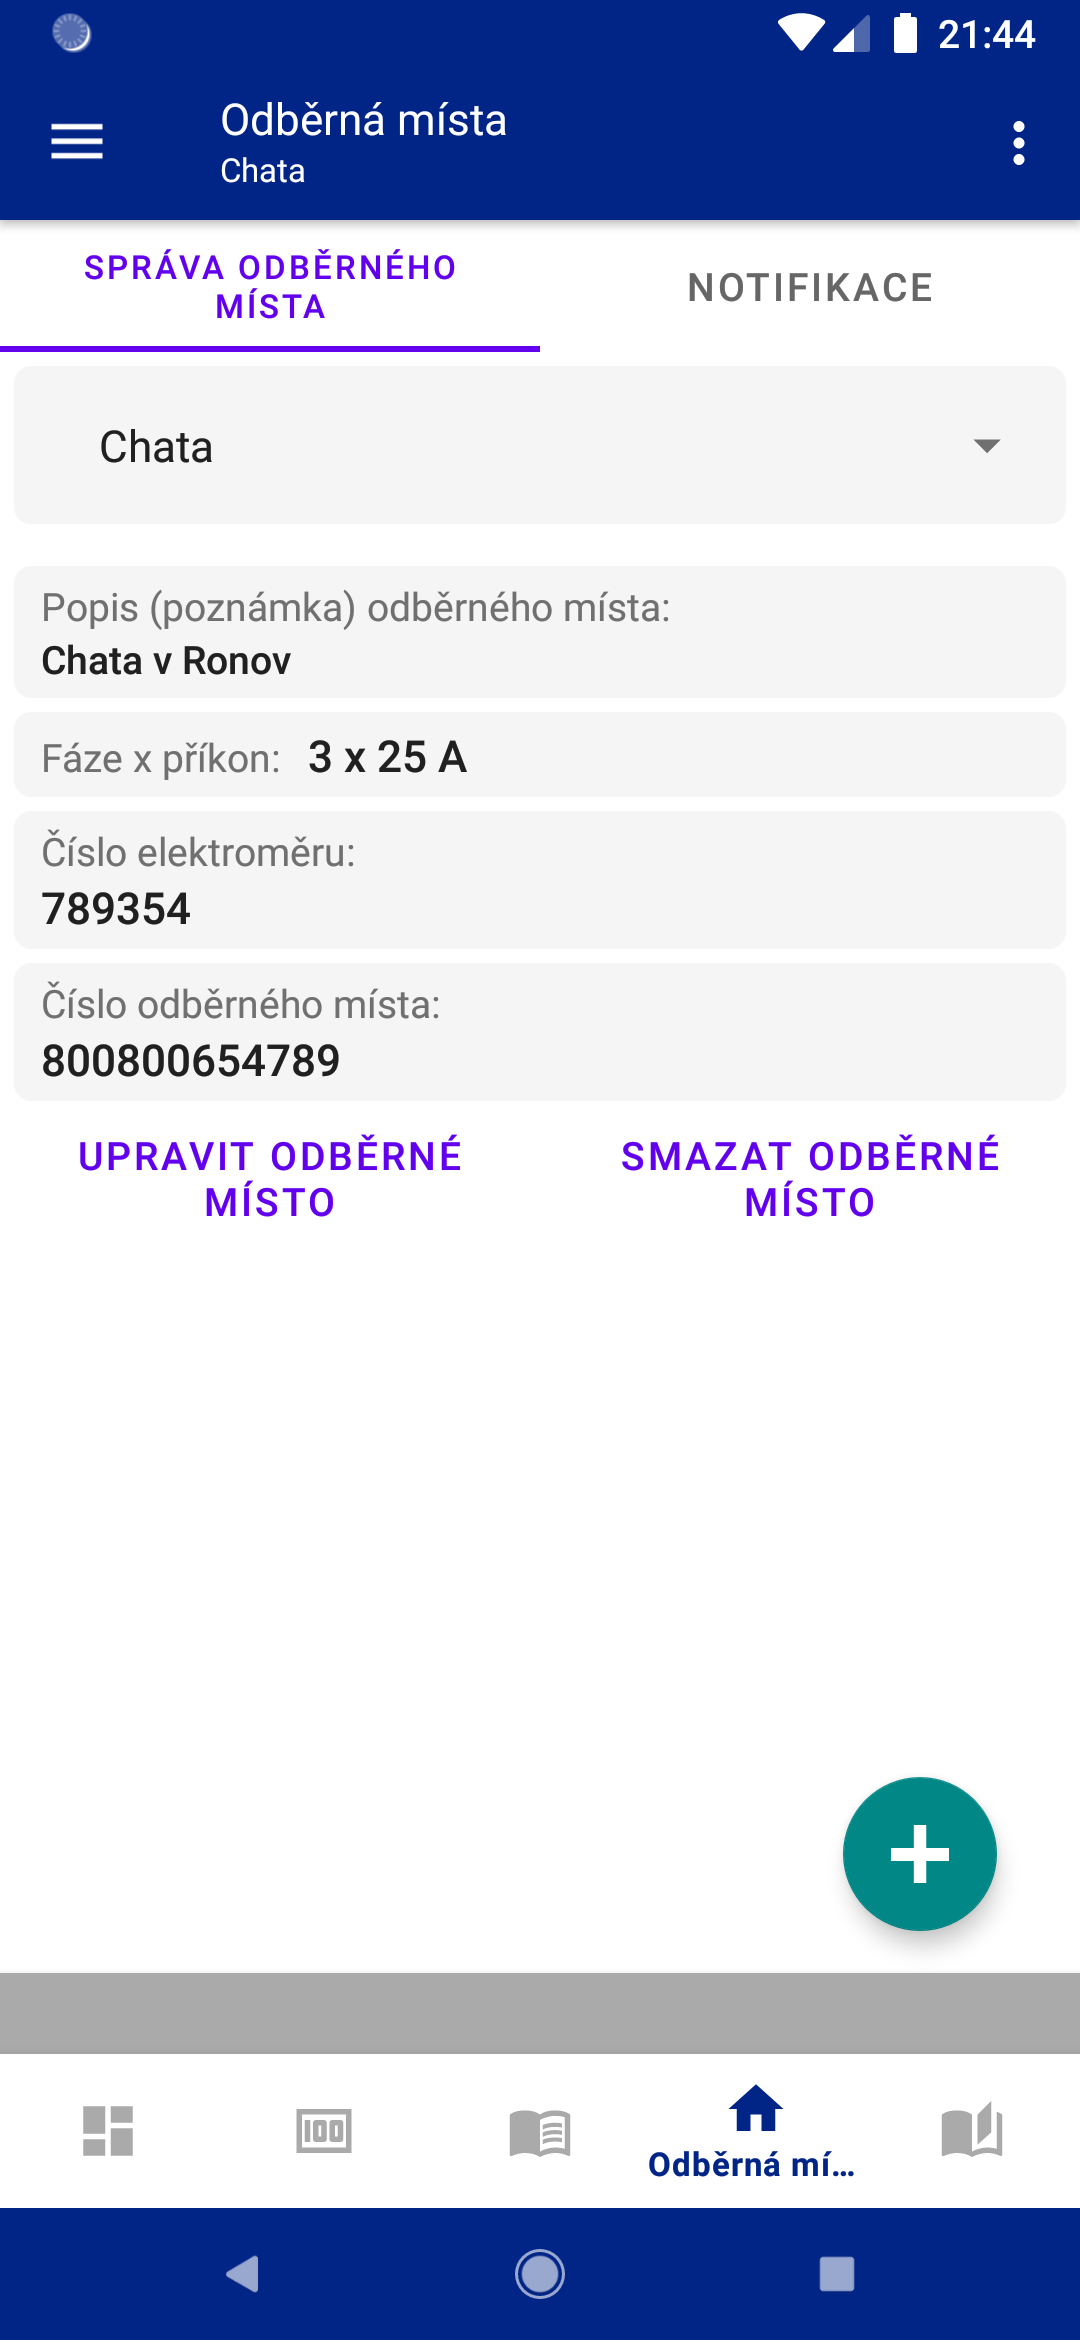
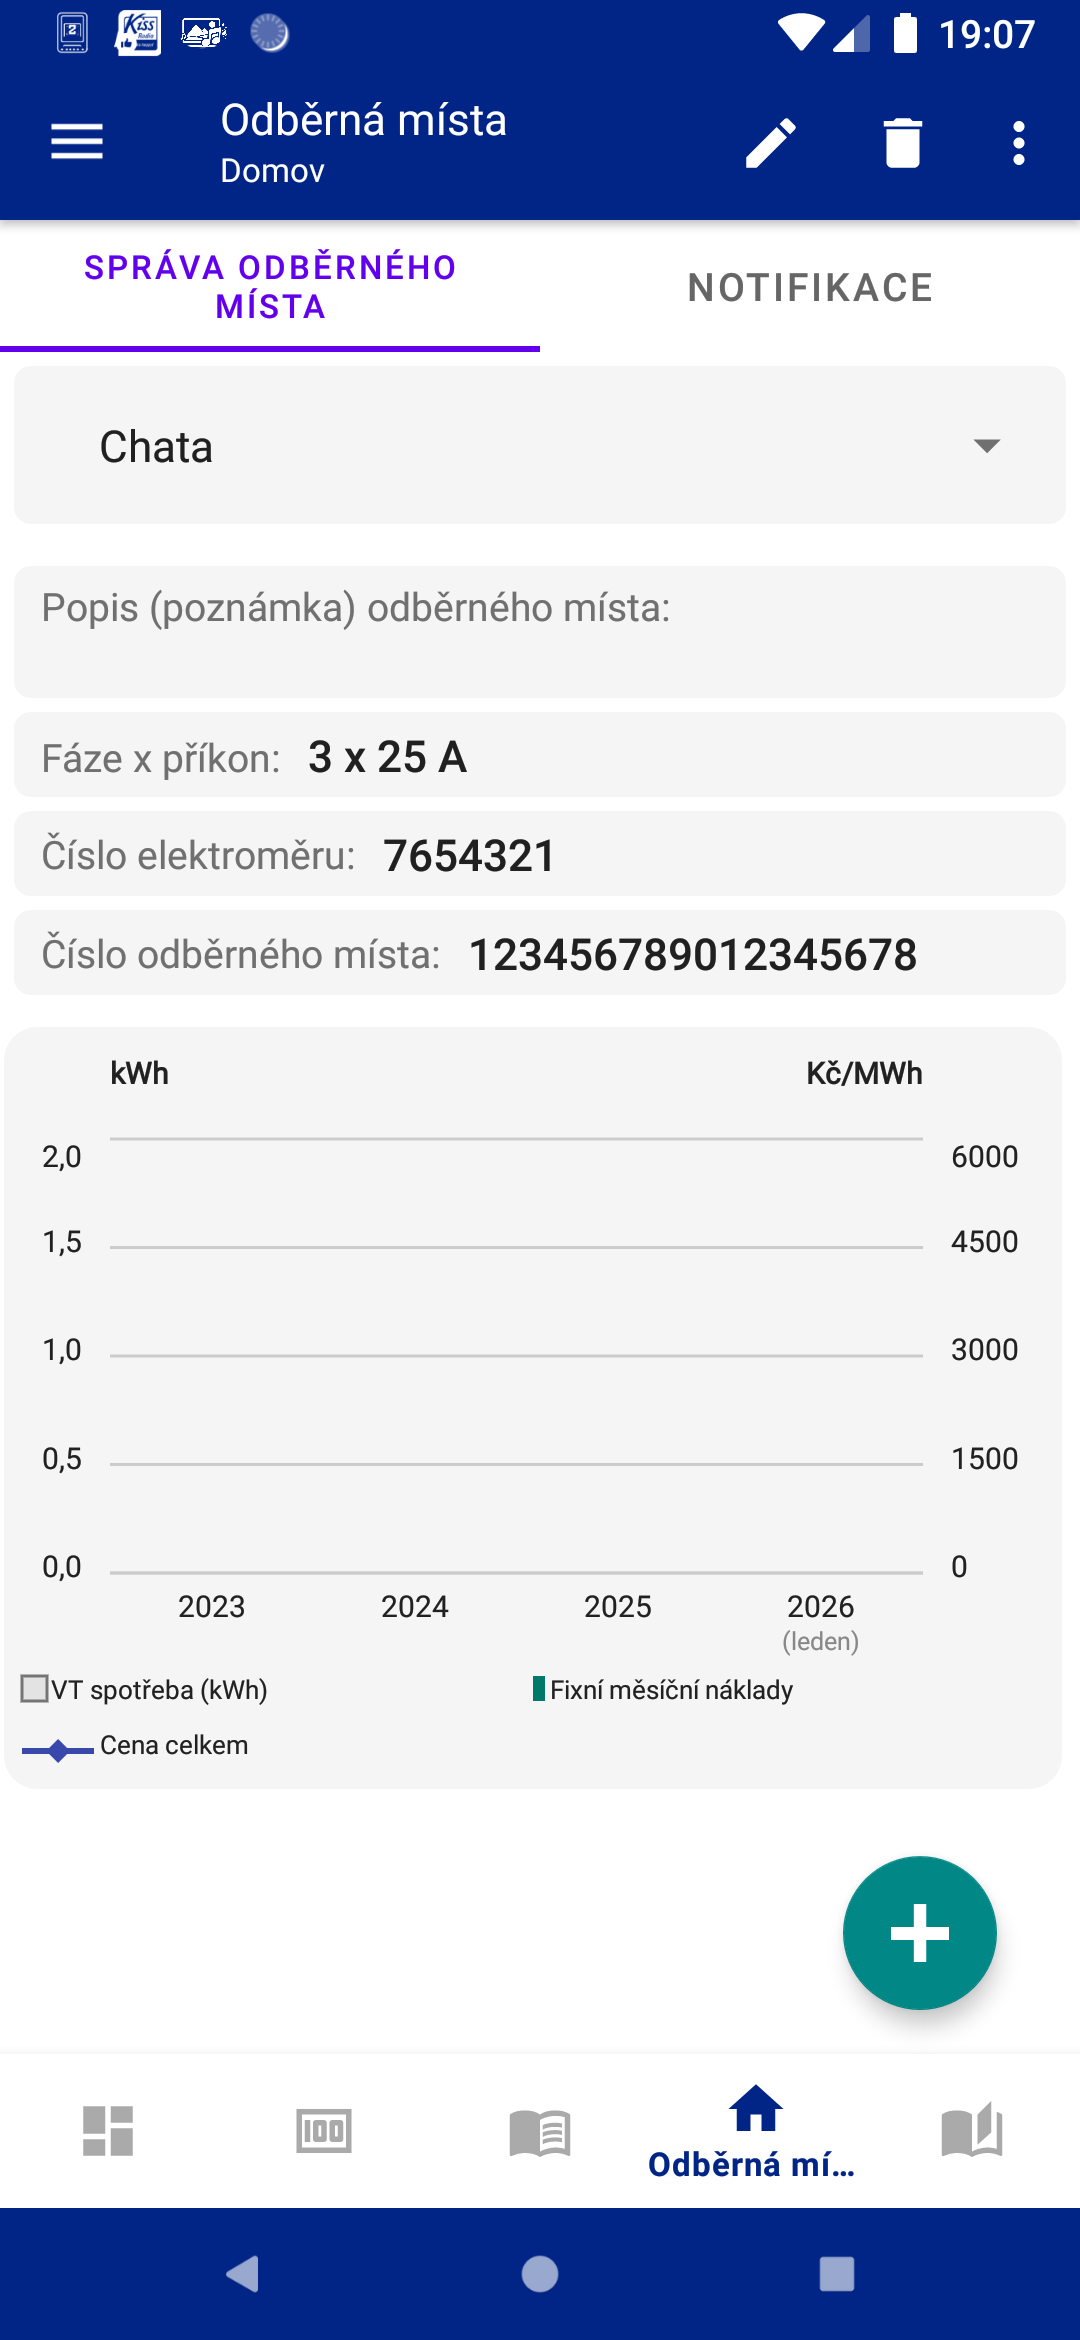
Dokumentace: doplnění popisu nových grafů a aktualizace verze aplikace
- build.gradle: zvýšení versionCode na 163 a versionName na 1.163
- README.md: rozšíření dokumentace o detaily kombinovaného grafu roční spotřeby, grafické zobrazení časů HDO, upozornění na neplatné kódy a aktualizace odkazů na snímky obrazovek
- version.json: přidání záznamu s datem vydání a seznamem nových funkcí pro verzi 163

diff --git a/README.md b/README.md
@@ -15,12 +15,61 @@ Aplikace pracuje s vysokým tarifem (VT), nízkým tarifem (NT), měsíčními z
 
 Odběrné místo představuje konkrétní místo spotřeby elektřiny, například byt, dům, garáž nebo chatu. V aplikaci lze vést více odběrných míst současně. Veškeré měsíční odečty, faktury, použité ceníky a další záznamy se vždy vztahují k aktuálně vybranému odběrnému místu.
 
-Obrazovka odběrných míst je rozdělena na dvě části: **Správa odběrného místa** a **Notifikace**. V
-části **Správa odběrného místa** se vybírá aktuální odběrné místo a zobrazují se jeho základní
-údaje. Aktuální odběrné místo se vybírá pomocí rozbalovacího seznamu v horní části obrazovky. Pod
-ním se zobrazují například poznámka, hodnota hlavního jističe, číslo elektroměru a číslo odběrného
-místa. Tyto údaje pomáhají odlišit jednotlivá místa a zároveň slouží jako podklad pro některé
-výpočty, zejména u hodnot souvisejících s hlavním jističem.
+Obrazovka odběrných míst je rozdělena na dvě části: **Správa odběrného místa** a **Notifikace** (v
+režimu na výšku) nebo na zobrazení detailů vlevo a záložek vpravo (v režimu na šířku). V části *
+*Správa odběrného místa** se vybírá aktuální odběrné místo a zobrazují se jeho základní údaje.
+Aktuální odběrné místo se vybírá pomocí rozbalovacího seznamu v horní části obrazovky. Pod ním se
+zobrazují například poznámka, hodnota hlavního jističe, číslo elektroměru a číslo odběrného místa.
+Tyto údaje pomáhají odlišit jednotlivá místa a zároveň slouží jako podklad pro některé výpočty,
+zejména u hodnot souvisejících s hlavním jističem.
+
+Součástí je také **Přehledový kombinovaný graf roční spotřeby a průměrných cen**, který zobrazuje 4
+po sobě jdoucí roky. Graf přehledně kombinuje skládané sloupce spotřeby vysokého (VT) a nízkého
+tarifu (NT), tenký sloupec fixních měsíčních nákladů a cenové čáry průměrných cen za MWh. Všechny
+číselné hodnoty spotřeby i cen jsou uspořádány do samostatných neprůhledných rámečků. V režimu na
+šířku lze záložkami v pravém sloupci pohodlně přepínat mezi zobrazením grafu a nastavením
+notifikací.
+
+### Graf roční spotřeby a průměrných cen
+
+V dolní části správy odběrného místa (nebo v pravé záložce v režimu na šířku) se zobrazuje
+přehledový kombinovaný graf roční spotřeby a průměrných cen. Graf automaticky zobrazuje **4 po sobě
+jdoucí roky** vztahující se k aktuálnímu roku (například 2023, 2024, 2025 a 2026 pro rok 2026).
+Pokud pro některý z roků ještě nejsou v aplikaci zadané odečty, zůstane pro daný rok vyhrazený
+prázdný slot na ose X.
+
+Graf kombinuje sloupcové ukazatele spotřeby a čárové ukazatele průměrných jednotkových cen:
+
+- **Spotřeba VT a NT**: Zobrazuje celkovou roční spotřebu v MWh, případně kWh, rozdělenou do
+  skládaných sloupců pro vysoký tarif (VT) a nízký tarif (NT). Nad sloupcem je zobrazen součet
+  celkové roční spotřeby.
+
+- **Fixní měsíční náklady**: Tenký sloupec vedle hlavního sloupce spotřeby znázorňuje průměrné stálé
+  měsíční platby. Patří sem stálý plat dodavatele, cena za jistič podle počtu fází a hodnoty jističe
+  odběrného místa, poplatek za OTE / činnost zúčtování a DPH.
+
+- **Cena VT a Cena NT**: Čáry v grafu zobrazují vážený průměr variabilních cen za 1 MWh včetně DPH v
+  daném roce. Obsahují kompletní variabilní složky ceny, tedy silovou elektřinu, distribuční
+  poplatky za kWh, daň z elektřiny, systémové služby a DPH. Pokud se v průběhu roku změní ceník,
+  cena se vypočítá jako vážený průměr podle odebraného množství elektřiny v jednotlivých obdobích.
+  Tyto ceny neobsahují stálé měsíční platby za jistič ani stálý plat dodavatele.
+
+- **Cena celkem**: Vyjadřuje skutečnou konečnou průměrnou cenu za 1 MWh včetně DPH. Udává reálný
+  náklad na každou spotřebovanou megawatthodinu. Tato cena vzniká sečtením všech variabilních i
+  fixních nákladů za celý rok a jejich rozpočítáním na celkovou roční spotřebu.
+
+  Výpočet:
+
+  **Cena celkem (Kč/MWh) = (variabilní náklady VT + variabilní náklady NT + celkové fixní náklady za
+  rok) / celková spotřeba v MWh**
+
+  Protože fixní měsíční platba vzniká bez ohledu na výši spotřeby, při menší roční spotřebě tvoří
+  fixní náklad větší podíl na celkovém účtu. Výsledná **Cena celkem** je proto vyšší než samostatné
+  variabilní ceny VT a NT. S rostoucí spotřebou se fixní náklad rozpočítá na více MWh a celková
+  průměrná cena se přibližuje k variabilním cenám.
+
+Klepnutím na kterýkoliv roční sloupec nebo datový bod v grafu se otevře podrobný dialog s přehledem
+spotřeby, měsíčních fixních nákladů a vážených průměrných cen pro vybraný rok.
 
 Nové odběrné místo lze přidat pomocí tlačítka **+** v pravé dolní části obrazovky. Stávající odběrné
 místo lze upravit tlačítkem **Upravit odběrné místo**. Při úpravě se zadává název odběrného místa,
@@ -39,9 +88,13 @@ nebo se zobrazují se zpožděním, je vhodné zkontrolovat nastavení aplikace 
 zejména oprávnění pro notifikace a přesné alarmy.
 
 <p align="center">
-  <img src="screenshots/odb_1.png" width="200" />
-  <img src="screenshots/odb_2.png" width="200" />
-  <img src="screenshots/odb_3.png" width="200" />
+  <img src="screenshots/odb_1.png" width="300" />
+  <img src="screenshots/odb_2.png" width="300" />
+</p>
+
+<p align="center">
+  <img src="screenshots/odb_3.png" width="300" />
+  <img src="screenshots/odb_4.png" width="300" />
 </p>
 
 ## Ceník
@@ -342,14 +395,25 @@ Výhodnost jednotlivých ceníků nemusí být vždy na první pohled zřejmá. 
 
 V aplikaci lze uložit časy nízkého tarifu (NT) a zobrazovat notifikace na jeho začátek a konec. Jednotlivé časy lze vložit nebo upravit ručně. Pokud je elektroměr vybaven spínačem HDO, lze podle HDO kódu načíst jednotlivé časy NT a uložit je v aplikaci.
 
+Aplikace nabízí přehledné **grafické zobrazení časů HDO**, které na 24hodinové časové ose vizuálně
+zvýrazňuje intervaly platnosti nízkého a vysokého tarifu během dne. Při zadávání nebo načítání HDO
+kódu probíhá automatická kontrola — v případě chybného formátu nebo nekompatibilního kódu
+distribuční sítě aplikace zobrazí **upozornění na neplatný HDO kód**.
+
 V horní části je zobrazen čas elektroměru. Pokud elektroměr není vybaven přijímačem HDO se synchronizací času, jeho čas se nemusí shodovat se skutečným časem. Pomocí tlačítek lze čas upravit tak, aby odpovídal času nastavenému na elektroměru.
 
 Nalezené seznamy časů je možné uložit do paměti aplikace. Touto akcí se přepíší původně uložené časy. Seznam časů lze také zkopírovat v textové podobě do schránky.
 
 <p align="center">
-  <img src="screenshots/hdo_1.jpg" width="200" />
-  <img src="screenshots/hdo_2.jpg" width="200" />
-  <img src="screenshots/hdo_3.jpg" width="200" />
+  <img src="screenshots/hdo_1.png" width="200" />
+  <img src="screenshots/hdo_4.png" width="200" />
+  <img src="screenshots/hdo_3.png" width="200" />
+</p>
+
+<p align="center">
+  <img src="screenshots/hdo_2.png" width="200" />
+  <img src="screenshots/hdo_5.jpg" width="200" />
+  <img src="screenshots/hdo_6.jpg" width="200" />
 </p>
 
 ## Statistika spotřeby
